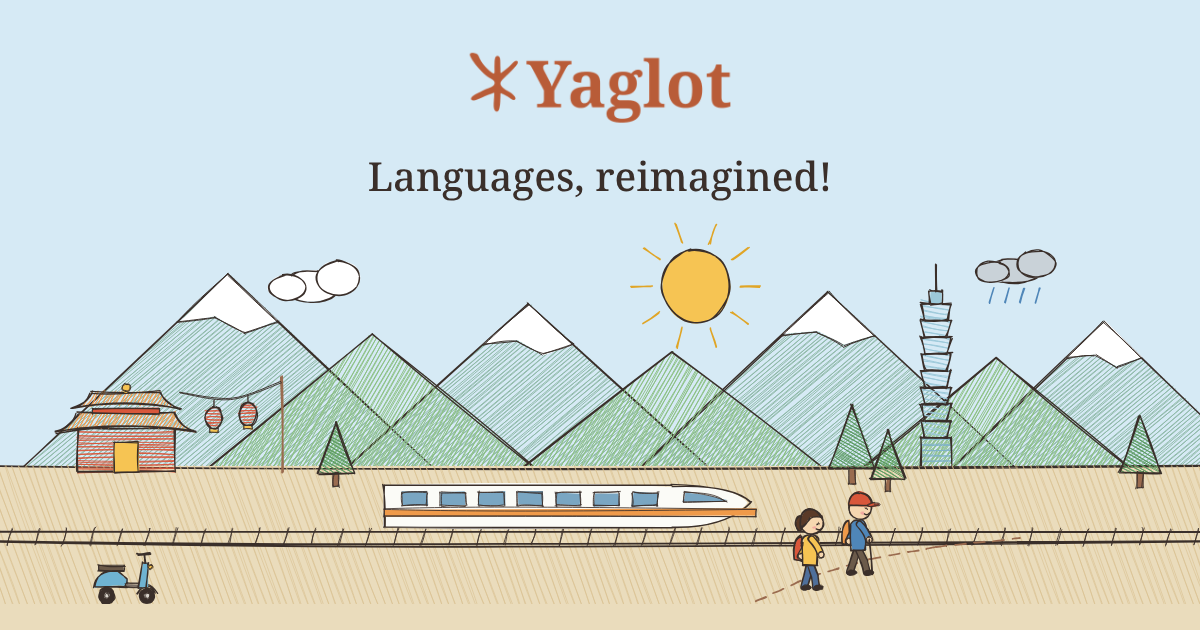
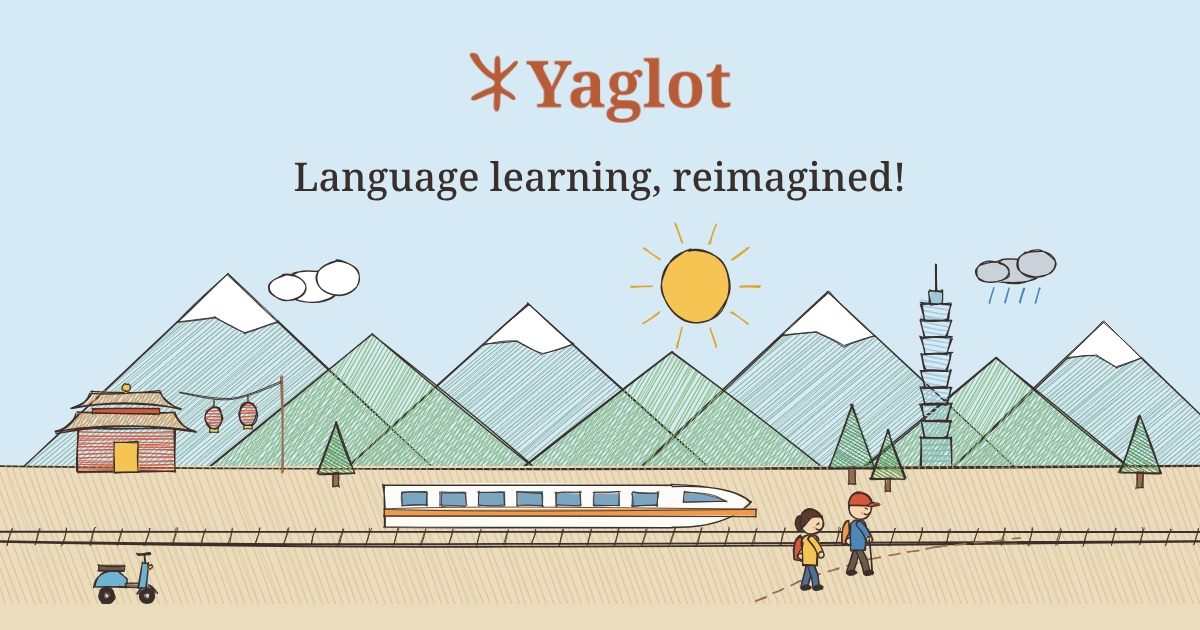
Home: short tab title; share picture says Language learning, reimagined!
Claude-Session: https://claude.ai/code/session_01E4kw6SLWyLP5q5PJjbmuPp

Changed region(s): [[0.2467, 0.2413, 0.7708, 0.3317]]

diff --git a/index.html b/index.html
@@ -3,7 +3,7 @@
 <head>
   <meta charset="utf-8" />
   <meta name="viewport" content="width=device-width, initial-scale=1" />
-  <title>Language learning, reimagined!</title>
+  <title>Languages, reimagined!</title>
   <meta name="description" content="Founded by a language and cognitive scientist, Yaglot is building its first Mandarin course. Coming soon!">
   <meta property="og:site_name" content="Yaglot">
   <meta property="og:title" content="Language learning, reimagined!">

diff --git a/DESIGN.md b/DESIGN.md
@@ -514,7 +514,7 @@ The site uses a hand-drawn, felt-tip doodle style. This section is the summary; 
 - Icon shape: a terracotta circle with the cream symbol, used for the browser tab icons (`favicon.ico`, `favicon.svg`, `favicon-96x96.png`) and `images/brand/yaglot_circle.png` (the circle on a transparent background)
 - Phone home-screen and app icons (`apple-touch-icon.png`, `web-app-manifest-*.png`) stay full squares, because phones cut them into their own rounded or circle shape
 - Icon links (in `index.html`, `construction.html` and `site.webmanifest`) end in a version tag, currently `?v=2`. Raise the number whenever an icon file changes, so browsers fetch the new icons instead of showing their saved copies
-- Social preview picture: `images/social_preview.png` (1200 × 630): the logo and 'Languages, reimagined!' above the hero scene; not a logo file
+- Social preview picture: `images/social_preview.png` (1200 × 630): the logo and 'Language learning, reimagined!' above the hero scene; not a logo file
 - The nine logo files, all in `images/brand/` (names use underscores, `_`):
   - `yaglot_name_with_symbol.png`: terracotta symbol and name, transparent (the header logo)
   - `yaglot_circle.png`: the circle on its own, transparent
@@ -528,7 +528,7 @@ The site uses a hand-drawn, felt-tip doodle style. This section is the summary; 
 - Only these nine are logos. Any logo file added, changed, renamed or removed must be reported to the founder, with the updated files, so their local logo folder stays in step
 
 **Titles and addresses** (full details in the 'yaglot.com: behind the scenes' document)
-- Home tab, search and social preview title: 'Language learning, reimagined!', with the description 'Founded by a language and cognitive scientist, Yaglot is building its first Mandarin course. Coming soon!' (20 November 2026). The site name 'Yaglot' is given to Google by a WebSite tag in the Home page head. Construction page: 'Yaglot is coming soon!'
+- Home tab title: 'Languages, reimagined!' (the short version, tab only; Google usually shows this as the search title too). Search description, link preview and share picture: 'Language learning, reimagined!', with the description 'Founded by a language and cognitive scientist, Yaglot is building its first Mandarin course. Coming soon!' (20 November 2026). The site name 'Yaglot' is given to Google by a WebSite tag in the Home page head. Construction page: 'Yaglot is coming soon!'
 - Pages live at yaglot.com, yaglot.com/construction (construction.html), yaglot.com/privacy (privacy.html), yaglot.com/terms (terms.html, terms and conditions), yaglot.com/contact (contact.html), yaglot.com/faqs (faqs.html), yaglot.com/mission (mission.html), yaglot.com/team (team.html) and yaglot.com/careers (careers.html); 404.html forwards old addresses such as /privacy to the right page
 
 ---
